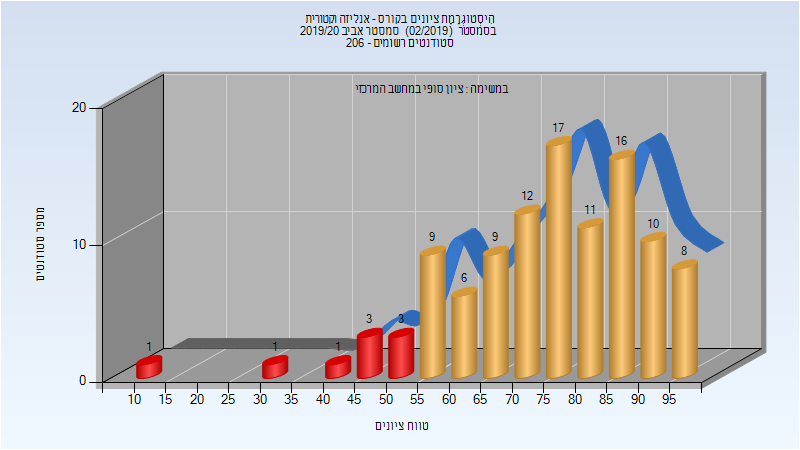
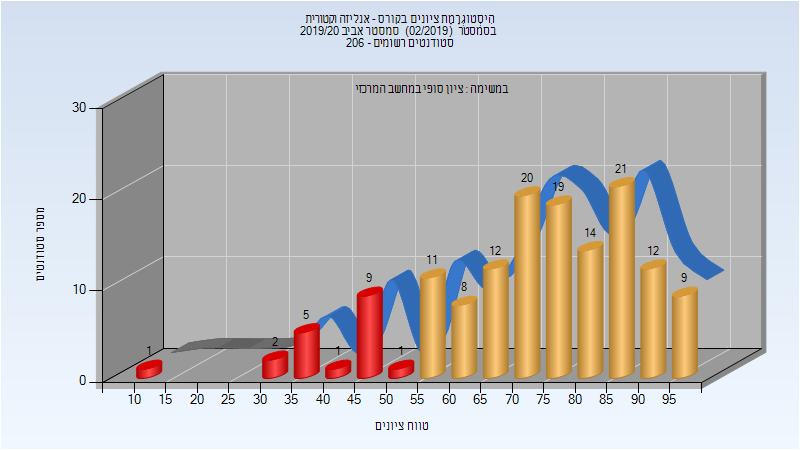
Deploy michael-maltsev/technion-histograms to github.com/michael-maltsev/technion-histograms.git:gh-pages

diff --git a/104033/index.html b/104033/index.html
@@ -1114,13 +1114,13 @@
 </thead>
 <tbody>
 <tr>
-<td>107</td>
-<td>98/9</td>
-<td>92</td>
+<td>145</td>
+<td>126/19</td>
+<td>87</td>
 <td>13</td>
 <td>98</td>
-<td>75.121</td>
-<td>76</td>
+<td>72.917</td>
+<td>75</td>
 </tr>
 </tbody>
 </table>

diff --git a/394902/index.html b/394902/index.html
@@ -947,12 +947,12 @@
 </thead>
 <tbody>
 <tr>
-<td>230</td>
-<td>230/0</td>
+<td>232</td>
+<td>232/0</td>
 <td>100</td>
 <td>87</td>
 <td>100</td>
-<td>98.148</td>
+<td>98.156</td>
 <td>98</td>
 </tr>
 </tbody>

diff --git a/394902/README.md b/394902/README.md
@@ -302,5 +302,5 @@
 
 | סטודנטים | עברו/נכשלו | אחוז עוברים | ציון מינימלי | ציון מקסימלי | ממוצע | חציון |
 | ---- | ---- | ---- | ---- | ---- | ---- | ---- |
-| 230 | 230/0 | 100 | 87 | 100 | 98.148 | 98 |
+| 232 | 232/0 | 100 | 87 | 100 | 98.156 | 98 |
 

diff --git a/104033/README.md b/104033/README.md
@@ -348,5 +348,5 @@
 
 | סטודנטים | עברו/נכשלו | אחוז עוברים | ציון מינימלי | ציון מקסימלי | ממוצע | חציון |
 | ---- | ---- | ---- | ---- | ---- | ---- | ---- |
-| 107 | 98/9 | 92 | 13 | 98 | 75.121 | 76 |
+| 145 | 126/19 | 87 | 13 | 98 | 72.917 | 75 |
 
